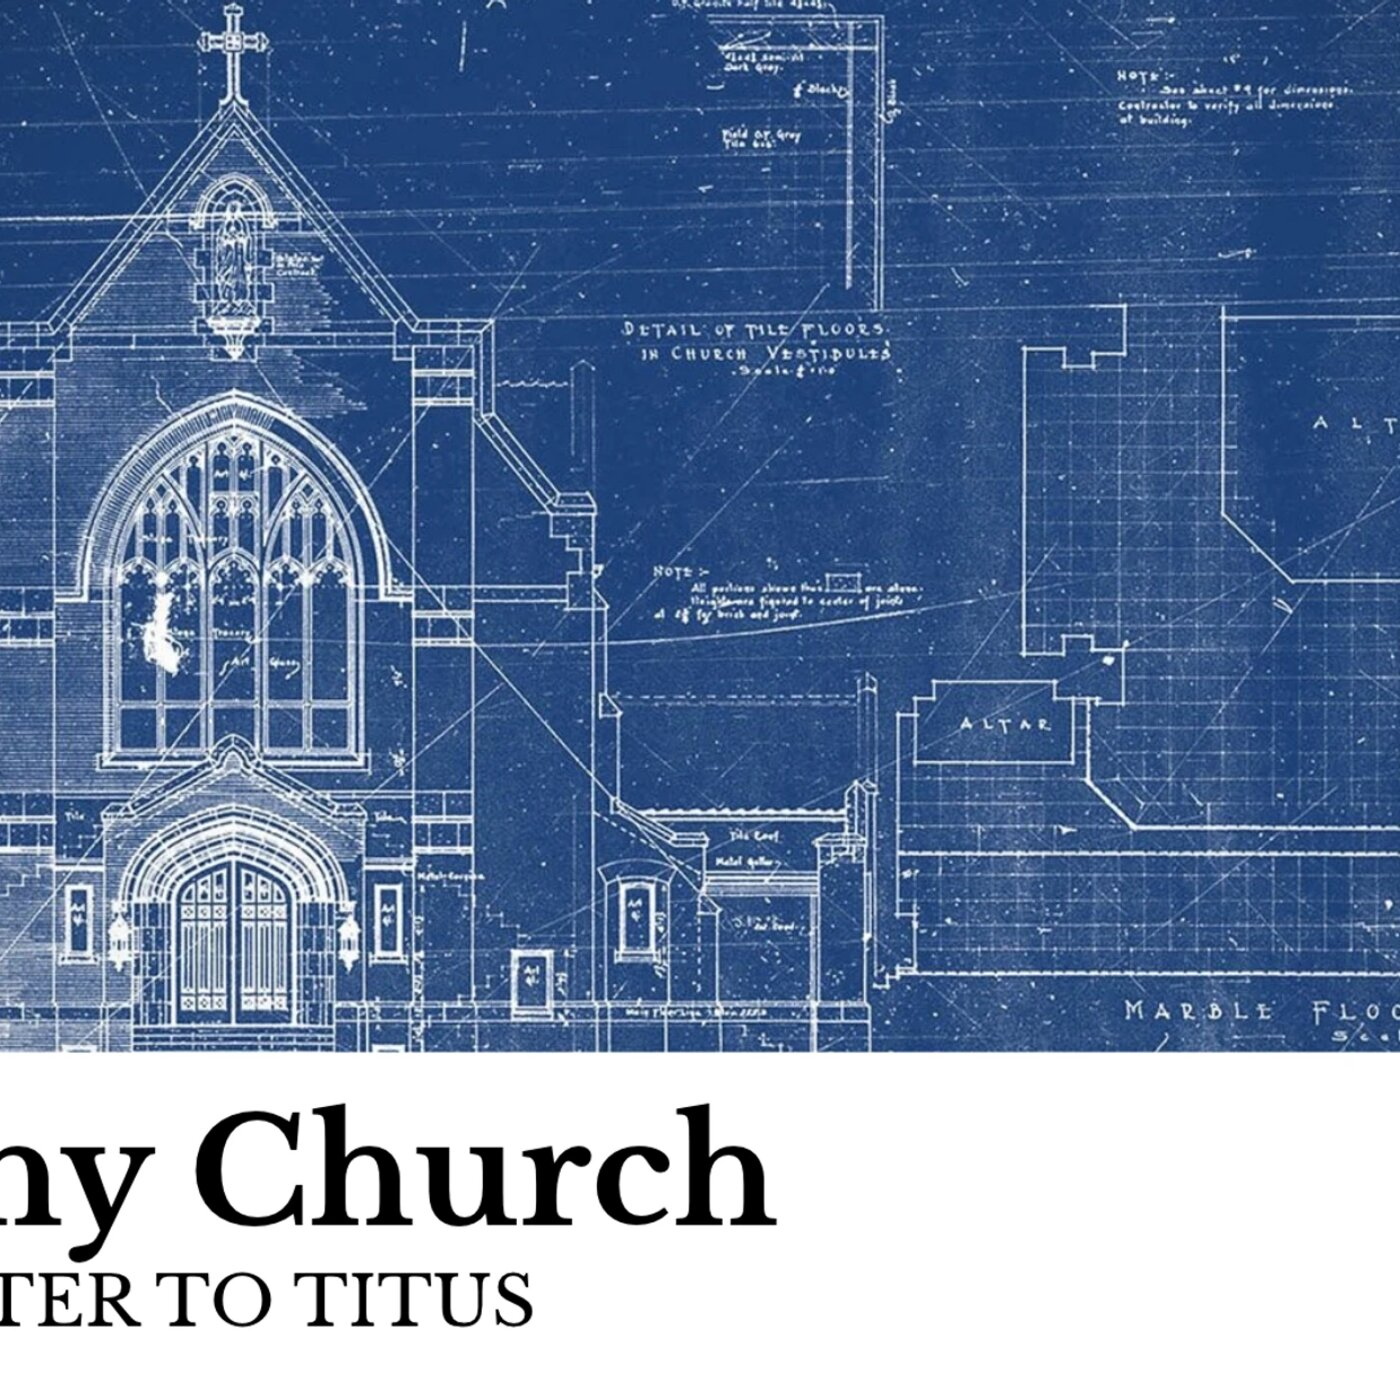
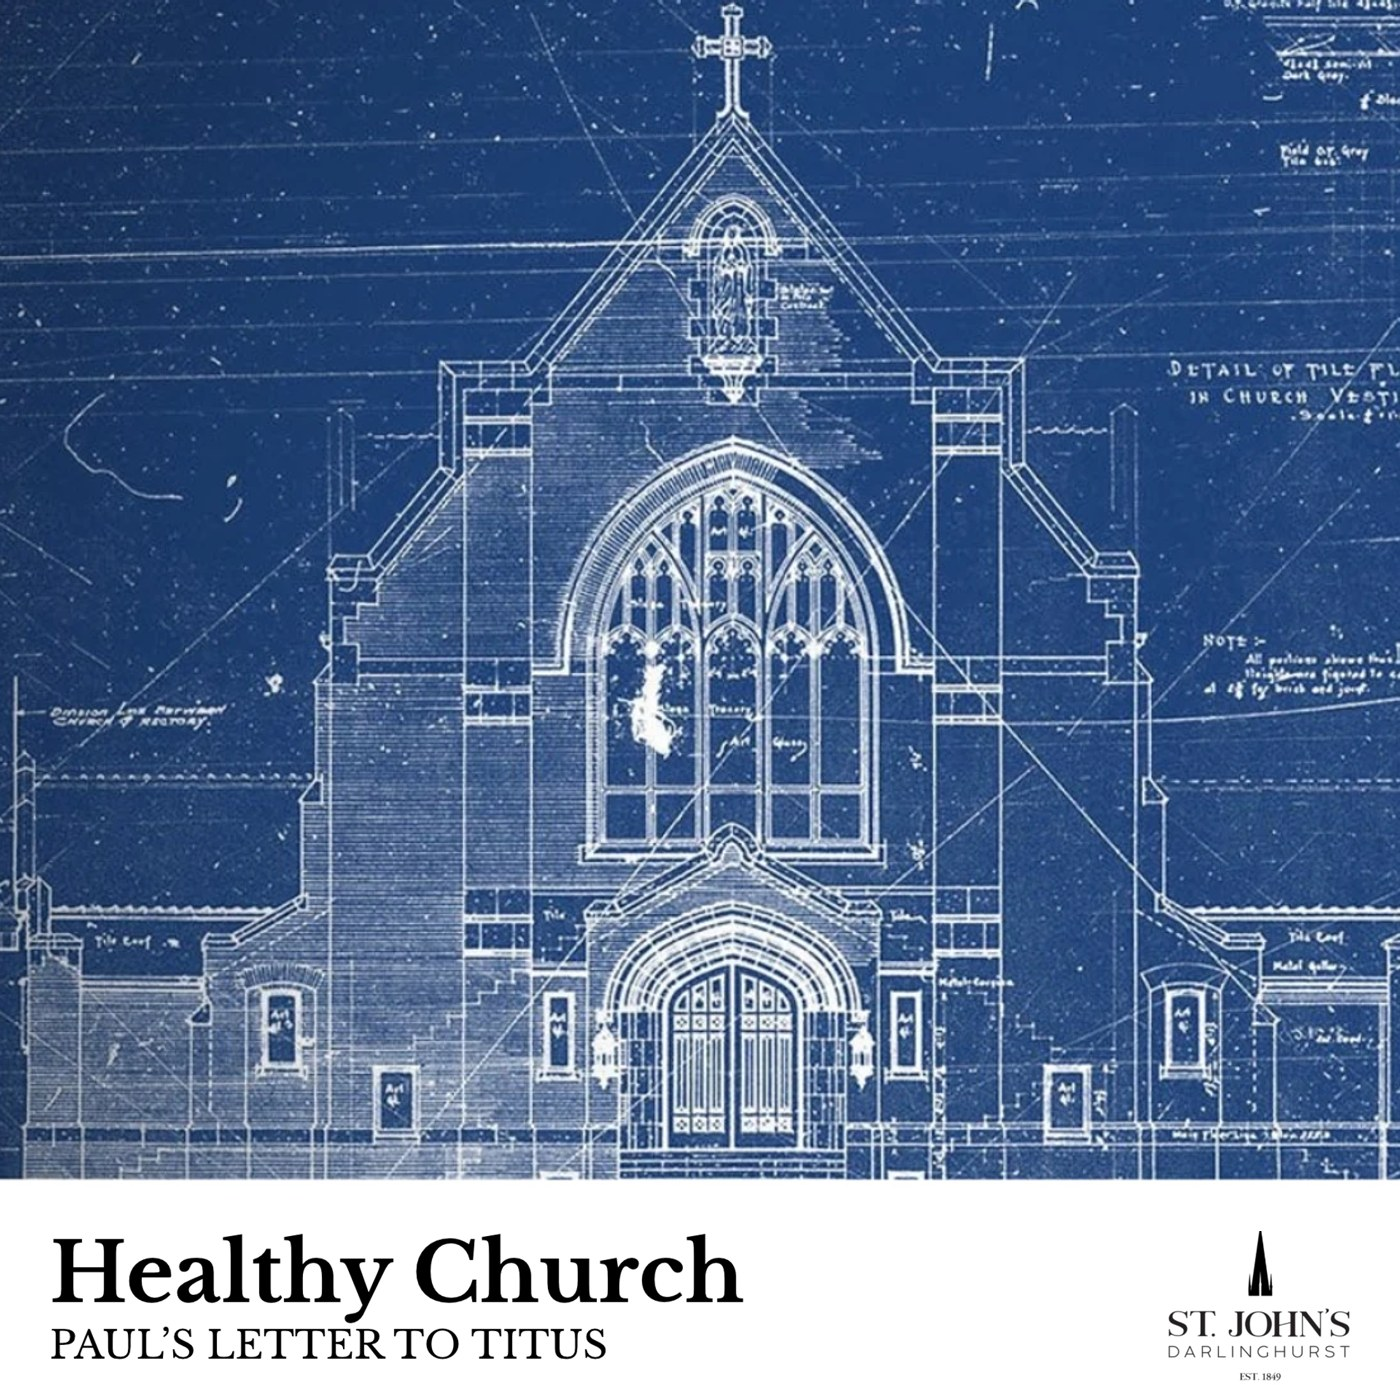
Sermons page: latest sermon, series-grouped rows, filters; podcast links in data
Claude-Session: https://claude.ai/code/session_01Q7hcTtSuYqJCcx1AR5v5CN

diff --git a/src/lib/content.ts b/src/lib/content.ts
@@ -16,8 +16,8 @@ export interface Sermon {
   /** Size of the audio file in bytes, required by the podcast feed's <enclosure>. */
   audioBytes: number;
   durationSeconds: number;
-  /** `podcastSrc` is a square JPEG (1400–3000px) for podcast apps, which don't accept WebP. */
-  artwork?: { src: string; alt: string; podcastSrc?: string };
+  /** `src` is the wide image; `podcastSrc` is a square JPEG (1400–3000px), used for podcast apps (which don't accept WebP) and for the square artwork on wide screens. */
+  artwork?: { src: string; alt: string; podcastSrc: string };
 }
 export interface Event {
   id: string;
@@ -37,7 +37,13 @@ export interface Event {
   registrationUrl: string | null;
 }
 
-export const sermons = Object.values(import.meta.glob<Sermon>('../../imported/sermons/*.json', { eager: true, import: 'default' }))
+export const sermons = Object.entries(import.meta.glob<Sermon>('../../imported/sermons/*.json', { eager: true, import: 'default' }))
+  .map(([file, sermon]) => {
+    if (sermon.artwork && !sermon.artwork.podcastSrc) {
+      throw new Error(`${file}: the sermon has artwork but no square version. Add artwork.podcastSrc (a square JPEG, 1400px or more).`);
+    }
+    return sermon;
+  })
   .sort((a, b) => b.date.localeCompare(a.date));
 export const events = Object.values(import.meta.glob<Event>('../../imported/events/*.json', { eager: true, import: 'default' }))
   .sort((a, b) => Date.parse(a.start) - Date.parse(b.start));
